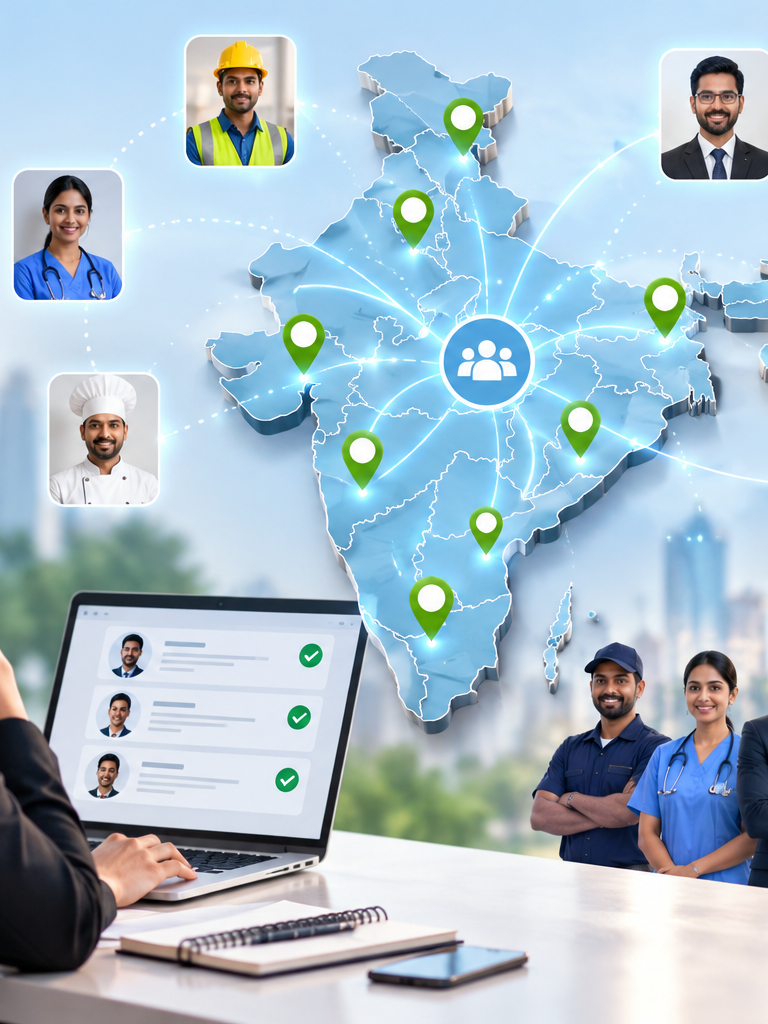
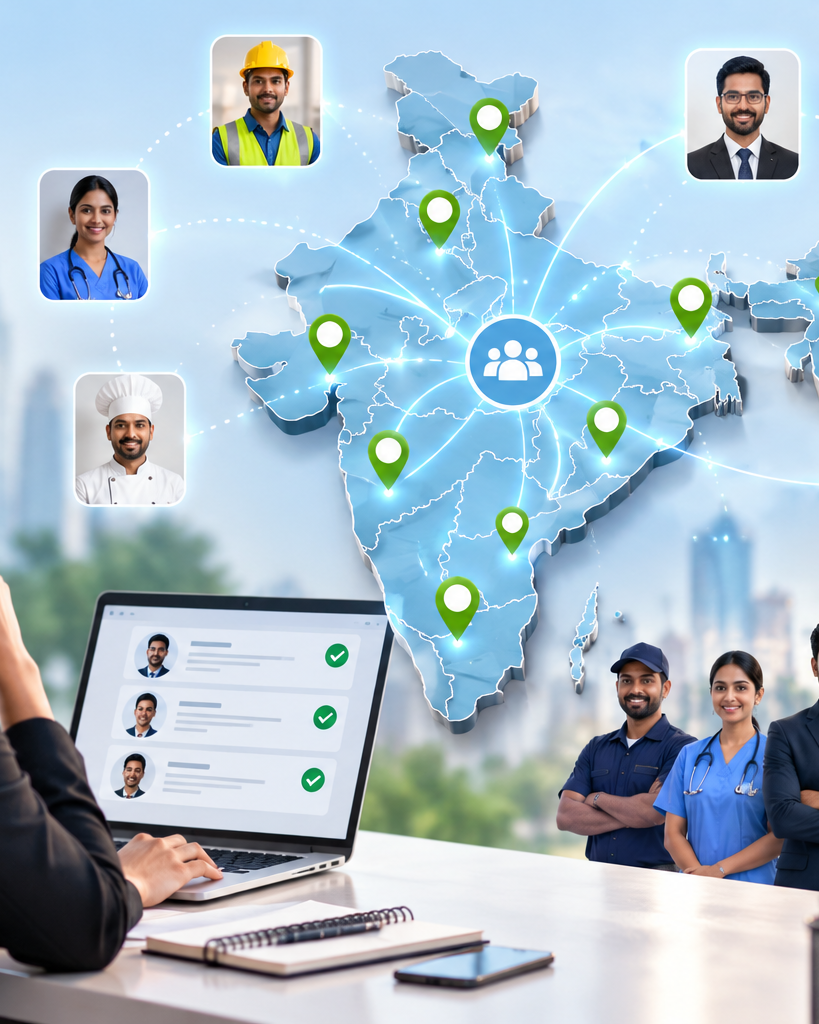
Give the service picture more width
The service index gave the picture three of twelve columns and framed it
3:4, which left it a tall sliver beside the copy — hardest on the
PAN-India artwork, where the map and the workforce had to share that
width. The picture column now takes four columns from the copy's six,
and the frame is 4:5, so the same artwork reads noticeably wider.

The PAN-India file is re-cropped to 4:5 to match, so it fills the frame
rather than being cropped again by the browser.

diff --git a/src/components/sections/service-index.tsx b/src/components/sections/service-index.tsx
@@ -108,7 +108,7 @@ export function ServiceIndex({
           </nav>
 
           {/* ---- sticky image + dashed rail ---- */}
-          <div className="hidden lg:sticky lg:top-36 lg:col-span-3 lg:block lg:self-start">
+          <div className="hidden lg:sticky lg:top-36 lg:col-span-4 lg:block lg:self-start">
             <div className="relative">
               <span
                 className={`absolute -left-8 top-0 bottom-0 border-l border-dashed ${
@@ -128,7 +128,7 @@ export function ServiceIndex({
                       src={item.image}
                       alt={item.image ? item.name : ""}
                       label={item.imageLabel}
-                      ratio="3/4"
+                      ratio="4/5"
                       tone={dark ? "dark" : "light"}
                     />
                   </div>
@@ -138,7 +138,7 @@ export function ServiceIndex({
           </div>
 
           {/* ---- scrolling detail blocks ---- */}
-          <div className="lg:col-span-6">
+          <div className="lg:col-span-5">
             {flat.map((item, i) => {
               const active = item.id === activeId;
               return (
